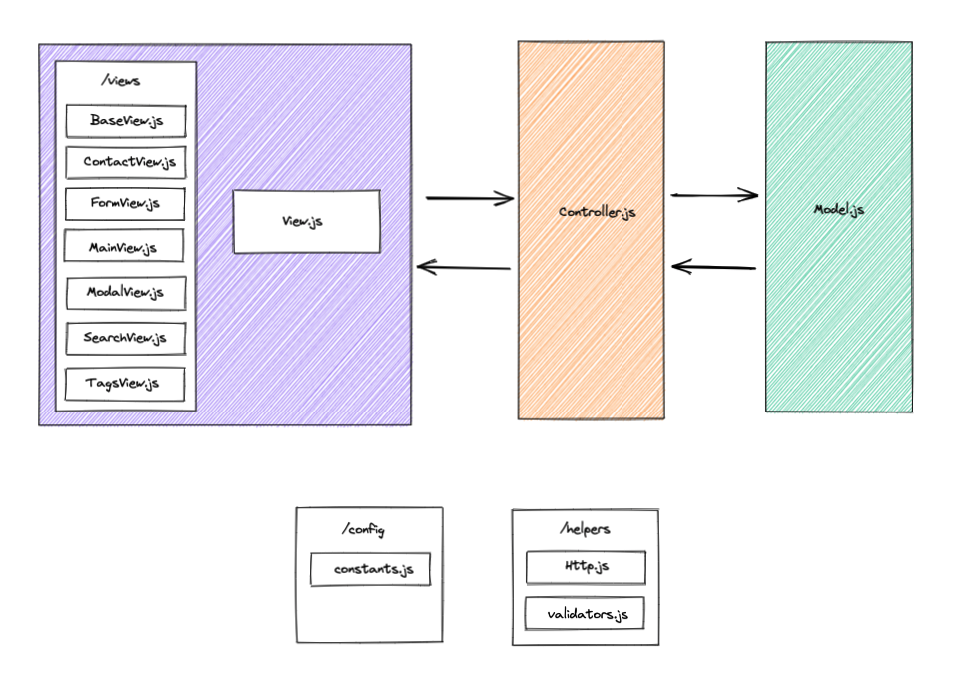
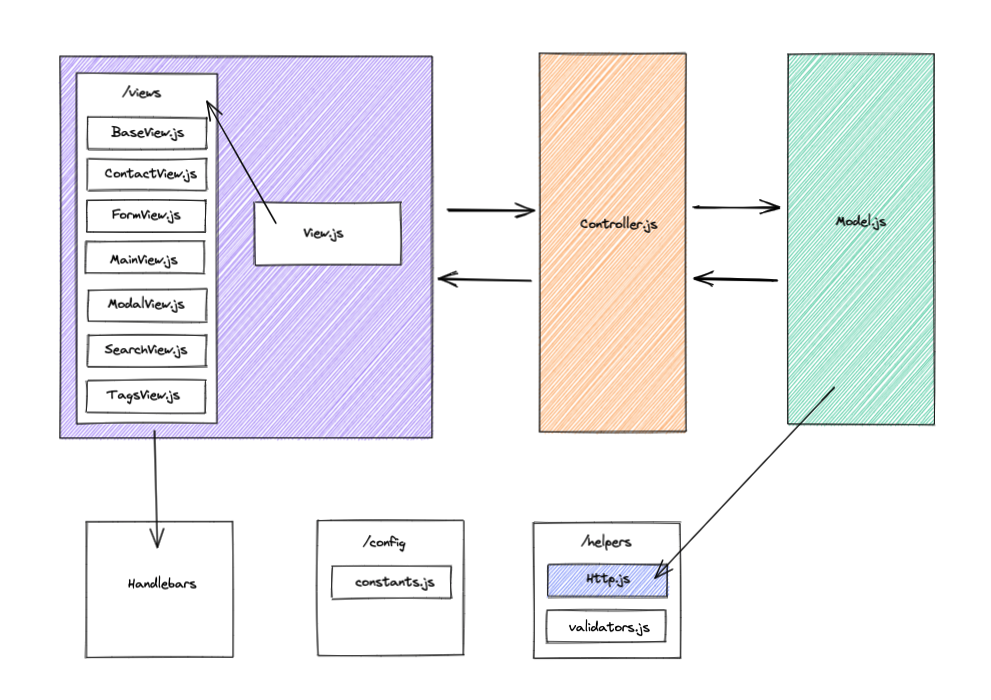
update readme

diff --git a/README.md b/README.md
@@ -1,22 +1,148 @@
 # Contacts Manager App 
 
-The contacts manager application implements basic CRUD functionalities. A contact is an entity with a `name`, `email`, `phone`, and `tags`. 
+This contacts manager application implements basic CRUD (Cread, Read, Update, and Delete) functionalities. A contact is an *entity* with a `name`, `email`, `phone`, and `tags`. 
 
 
 ![Contacts Manager Diagram](./contacts-manager-diagram.png)
 
-### Application Architecture Reasoning
-...
+## Application Architecture Reasoning
+I wanted to build this application in such a way that would allow me to reuse components, and make the maintainability of this app effortless. 
 
-### User Stories 
-...
+I did some quick research and learn that most web applications have the the following components: 
+- Domain Logic
+- Application Logic
+- Presentation Layer
+- State Management 
+- HTTP Library 
+- Other (Databases, ORM, Data Access, etc)
 
-### Features  
-...
+#### Domain Logic 
+The domain logic (aka business logic) is the part of the program that actually solves the problem. It deals with how data can be *created*, *updated*, *stored* and more. For example, *sending an email*, *calculating a salary*, *creating a new user*. 
+> The domain logic is concerned with the data itself. 
 
-### Future features and Fixes
+
+#### Application Logic 
+The application logic is concerned with how the application works. For example: When the `add contact` button is clicked the application should present a modal window with a form. When an error occurs, the application should present an error message. 
+> The application logic defines the applications's architecture and how it works.
+
+#### Presentation Layer 
+The presentation layer is concerned with the application's UI, and binding events, and delegating that behavior to the domain logic.
+> The presentation layer responds to events triggered by user, browser, or 3rd party programs.
+
+#### State Management 
+State Management helps in updating the UI in related places when there is a change in the application data due to action performed in the application like click, hover, etc. It also helps in making sure that state changes have been incorporated at corresponding places. 
+> The 'state' allows UI components to stay in sync and should be considered the 'single source of truth' for component data and state component changes. 
+###### Sources 
+- [How Redux helps managing state in JavaScript applications](https://www.innominds.com/blog/why-redux-and-how-it-helps-in-managing-state-in-javascript-application#:~:text=State%20Management%20helps%20in%20updating,been%20incorporated%20at%20corresponding%20places.)
+- [What does the single source of truth mean](https://stackoverflow.com/questions/47182888/what-does-the-single-source-of-truth-mean)
+
+#### HTTP Library
+Some options include, the good ol' [XMLHttpRequest](https://developer.mozilla.org/en-US/docs/Web/API/XMLHttpRequest) object, The [fetch API](https://developer.mozilla.org/en-US/docs/Web/API/Fetch_API), and [axios](https://axios-http.com/docs/intro). 
+> Allows you to make make and receive HTTP requests
+
+---
+
+
+### So...
+After falling down the rabbit hole of application architectures, I found 2 main common architectures: 
+1. Model-View-Controller (MVC)
+2. The Flux Pattern 
+
+I did play around with the Flux pattern a bit using Redux, but it quickly got out of control. So, I thought MVC was the way to go. It is a lot simpler than the Flux pattern and makes separation of concerns much easier. I highly recommend this [MVC article](https://www.taniarascia.com/javascript-mvc-todo-app) by Tania Rascia. 
+
+
+---
+
+## User Stories 
+- [x] As a *user*. I want to *search for contacts*, So that *I can filter contacts by a substring in their name*.
+- [x] As a *user*. I want to *add a contact*, So that *I can save a contact I want.*
+- [x] As a *user*. I want to *update a contact*, So that *I can edit a contact with new info or fix incorrect info*.
+- [x] As a *user*. I want to *list a contact*, So that *I can view the contact in its own page*.
+- [x] As a *user*. I want to *delete a contact*, So that *I can remove unwanted or irrelevant contacts*.
+- [x] As a *user*. I want to *tag a contact*, So that *I can filter contacts based on that tag*.
+- [ ] As a *user*. I want to *remove a tag*, So that *I delete a tag an unwanted tag from a contact*.
+- [ ] As a *user*. I want to *favorite a contact*, So that *I can find my favorite contacts at a glance*.
+- [ ] As a *user*. I want to *paginate contacts*, So that *I don't see all contacts at once*.
+- [ ] As a *developer*, I want to *seed contact data*, so that *I can show paginated results.*
+    - Create your own library to seed information using `faker`.
+
+---
+## Features  
+### Add a Contact
+> **User Story**: As a *user*. I want to *add a contact*, So that *I can save a contact I want.*
+- When the user clicks on a `Add Contact` buttom
+  - Show a modal window with a form with the following fields: 
+    - `Full Name` (input field)
+    - `Email` (input field)
+    - `Phone Number` (input field)
+    - `Tags` (Multi-select options field)
+    - `Custom Tag` (input field)
+    - `Submit` button 
+    - `Cancel` button 
+  - If the user clicks the `Submit` button, then: 
+    - Add the contact information to the database. 
+  - If the user clicks the `Cancel` button, then: 
+    - Reset the form, and dismiss the modal. 
+
+
+---
+### Edit a contact 
+> **User Story**: As a *user*. I want to *update a contact*, So that *I can edit a contact with new info or fix incorrect info*.
+- When the user clicks on the `Edit` button
+  - Show a modal window with a form with the following fields: 
+    - `Full Name` with full name value 
+    - `Email` with email value 
+    - `Phone Number` with phone number value 
+    - `Tags` as multi-select options selected
+    - `Custom Tag` with empty input field value
+    - `Submit` button 
+    - `Cancel` button 
+  - If the user clicks `Submit` button, then:
+    - Save the updated user to the database 
+  - If the user clicks `Cancel` button, then: 
+    - Simply dismiss modal window, and do NOT persist changes. 
+
+### Delete a Contact
+> **User Story**: As a *user*. I want to *delete a contact*, So that *I can remove unwanted or irrelevant contacts*.
+- When the user clicks on a `Delete` button
+  - Show a modal window with: 
+    - Message: `Do you want to delete 'user name' from your contacts?`
+    - `Cancel` button
+    - `OK` button 
+  - If user clicks on `Cancel` button, then do nothing, and simply dismiss the modal window 
+  - If the user clicks on `OK` button, then: 
+    - **delete** the user from the database 
+    - **update** the view with new updated contacts list
+
+
+## List Single Contact (Not Yet Implemented)
+> **User Story**: As a *user*. I want to *list a contact*, So that *I can view the contact in its own page*.
+- When the user clicks on contact's first name link
+  - Display a page about that contact 
+  - Otherwise, display the list of contacts 
+
+### Tag a Contact
+> **User Story**: As a *user*. I want to *tag a contact*, So that *I can filter contacts based on that tag*.
+- When creating or updating a contact 
+- Be able to select an existing tag OR create a new tag
+---
+
+## Workflow
+1. Write user stories 
+2. Write feature description 
+3. Implement HTTP wrapper `/javascripts/modules/helpers/Http.js`
+4. Implement Model `/javascripts/modules/Model.js`
+   > Here I tried to decouple the `state` and tried to mimick the way an application is structured in the wild
+5. Implement all views and instantiate them in `/javascripts/modules/View.js`
+6. Export and Initialize Controller in `main.js`
+---
+
+### Future Features and Fixes
 - [ ] Allow user to delete and edit tags. 
 - [ ] Allow user to create multiple tags at once. 
-- [ ] Show user the tags associated with them when contact form is loaded. 
+- [ ] Show user the tags associated with them when contact form is loaded. (e.g. show checked checkboxes)
 - [ ] Allow user to favorite contacts and render favorited contacts in dropdown in navbar. 
-- [ ] Store favorites in Local Storage. 
+- [ ] Store favorites in Local Storage.
+- [ ] Add pagination 
+- [ ] Seed contacts function (add large amount of contacts)
+- [ ] List a single user 
